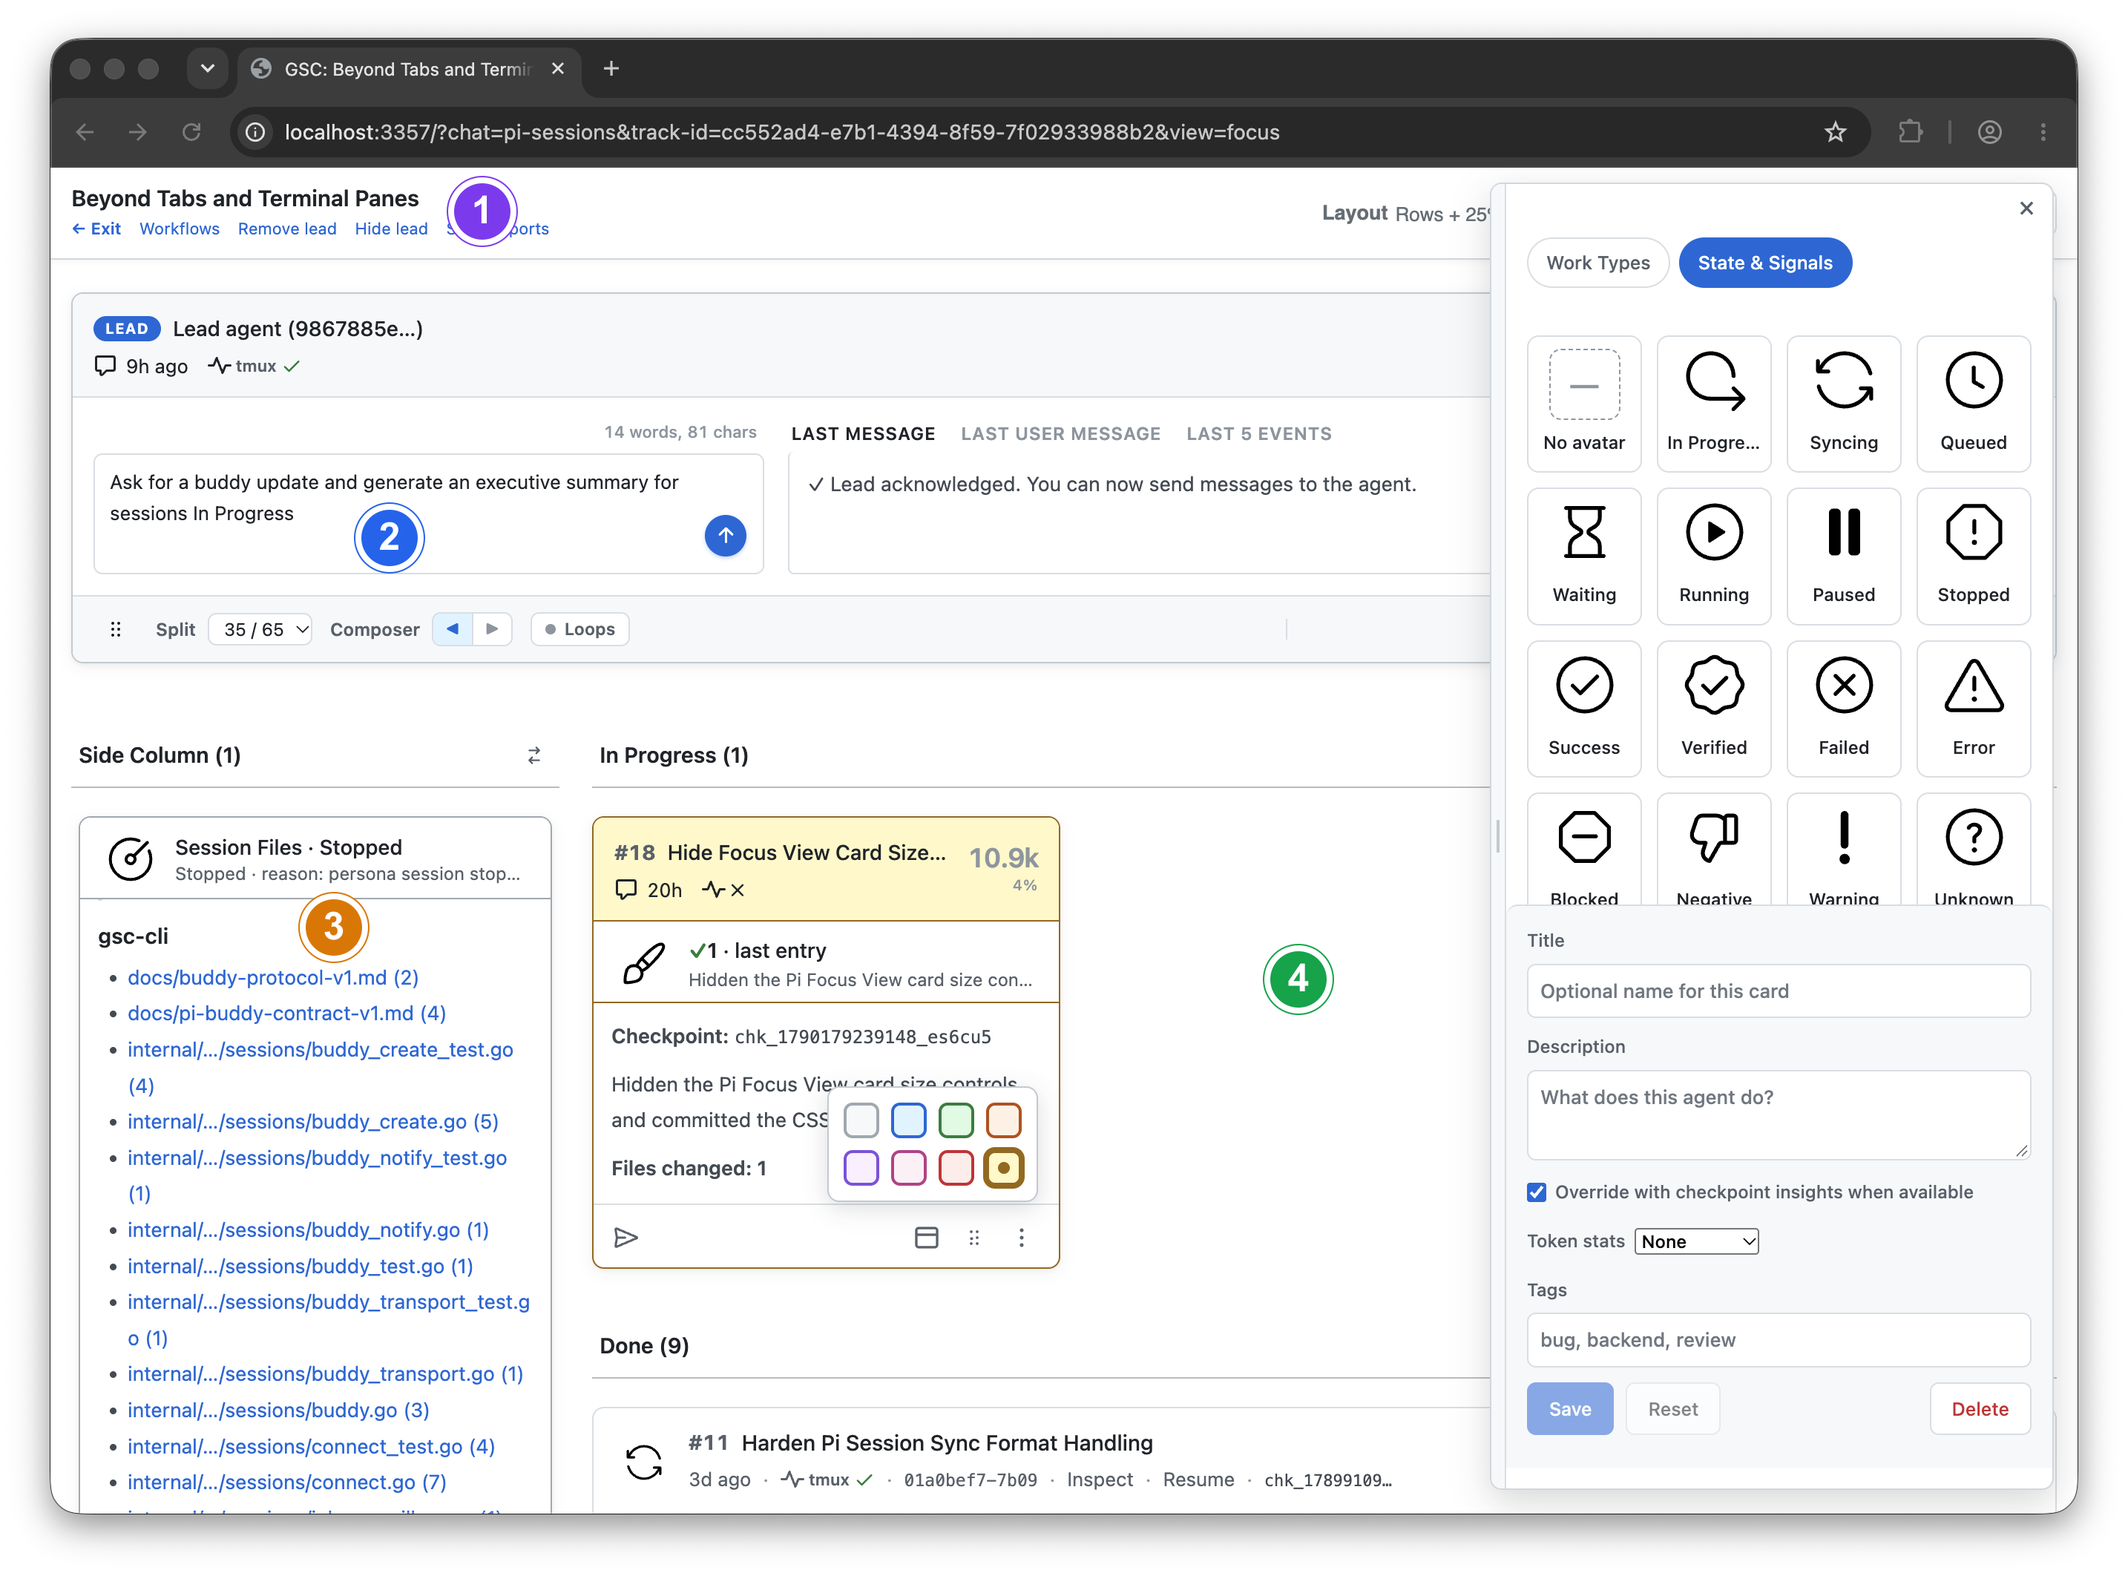
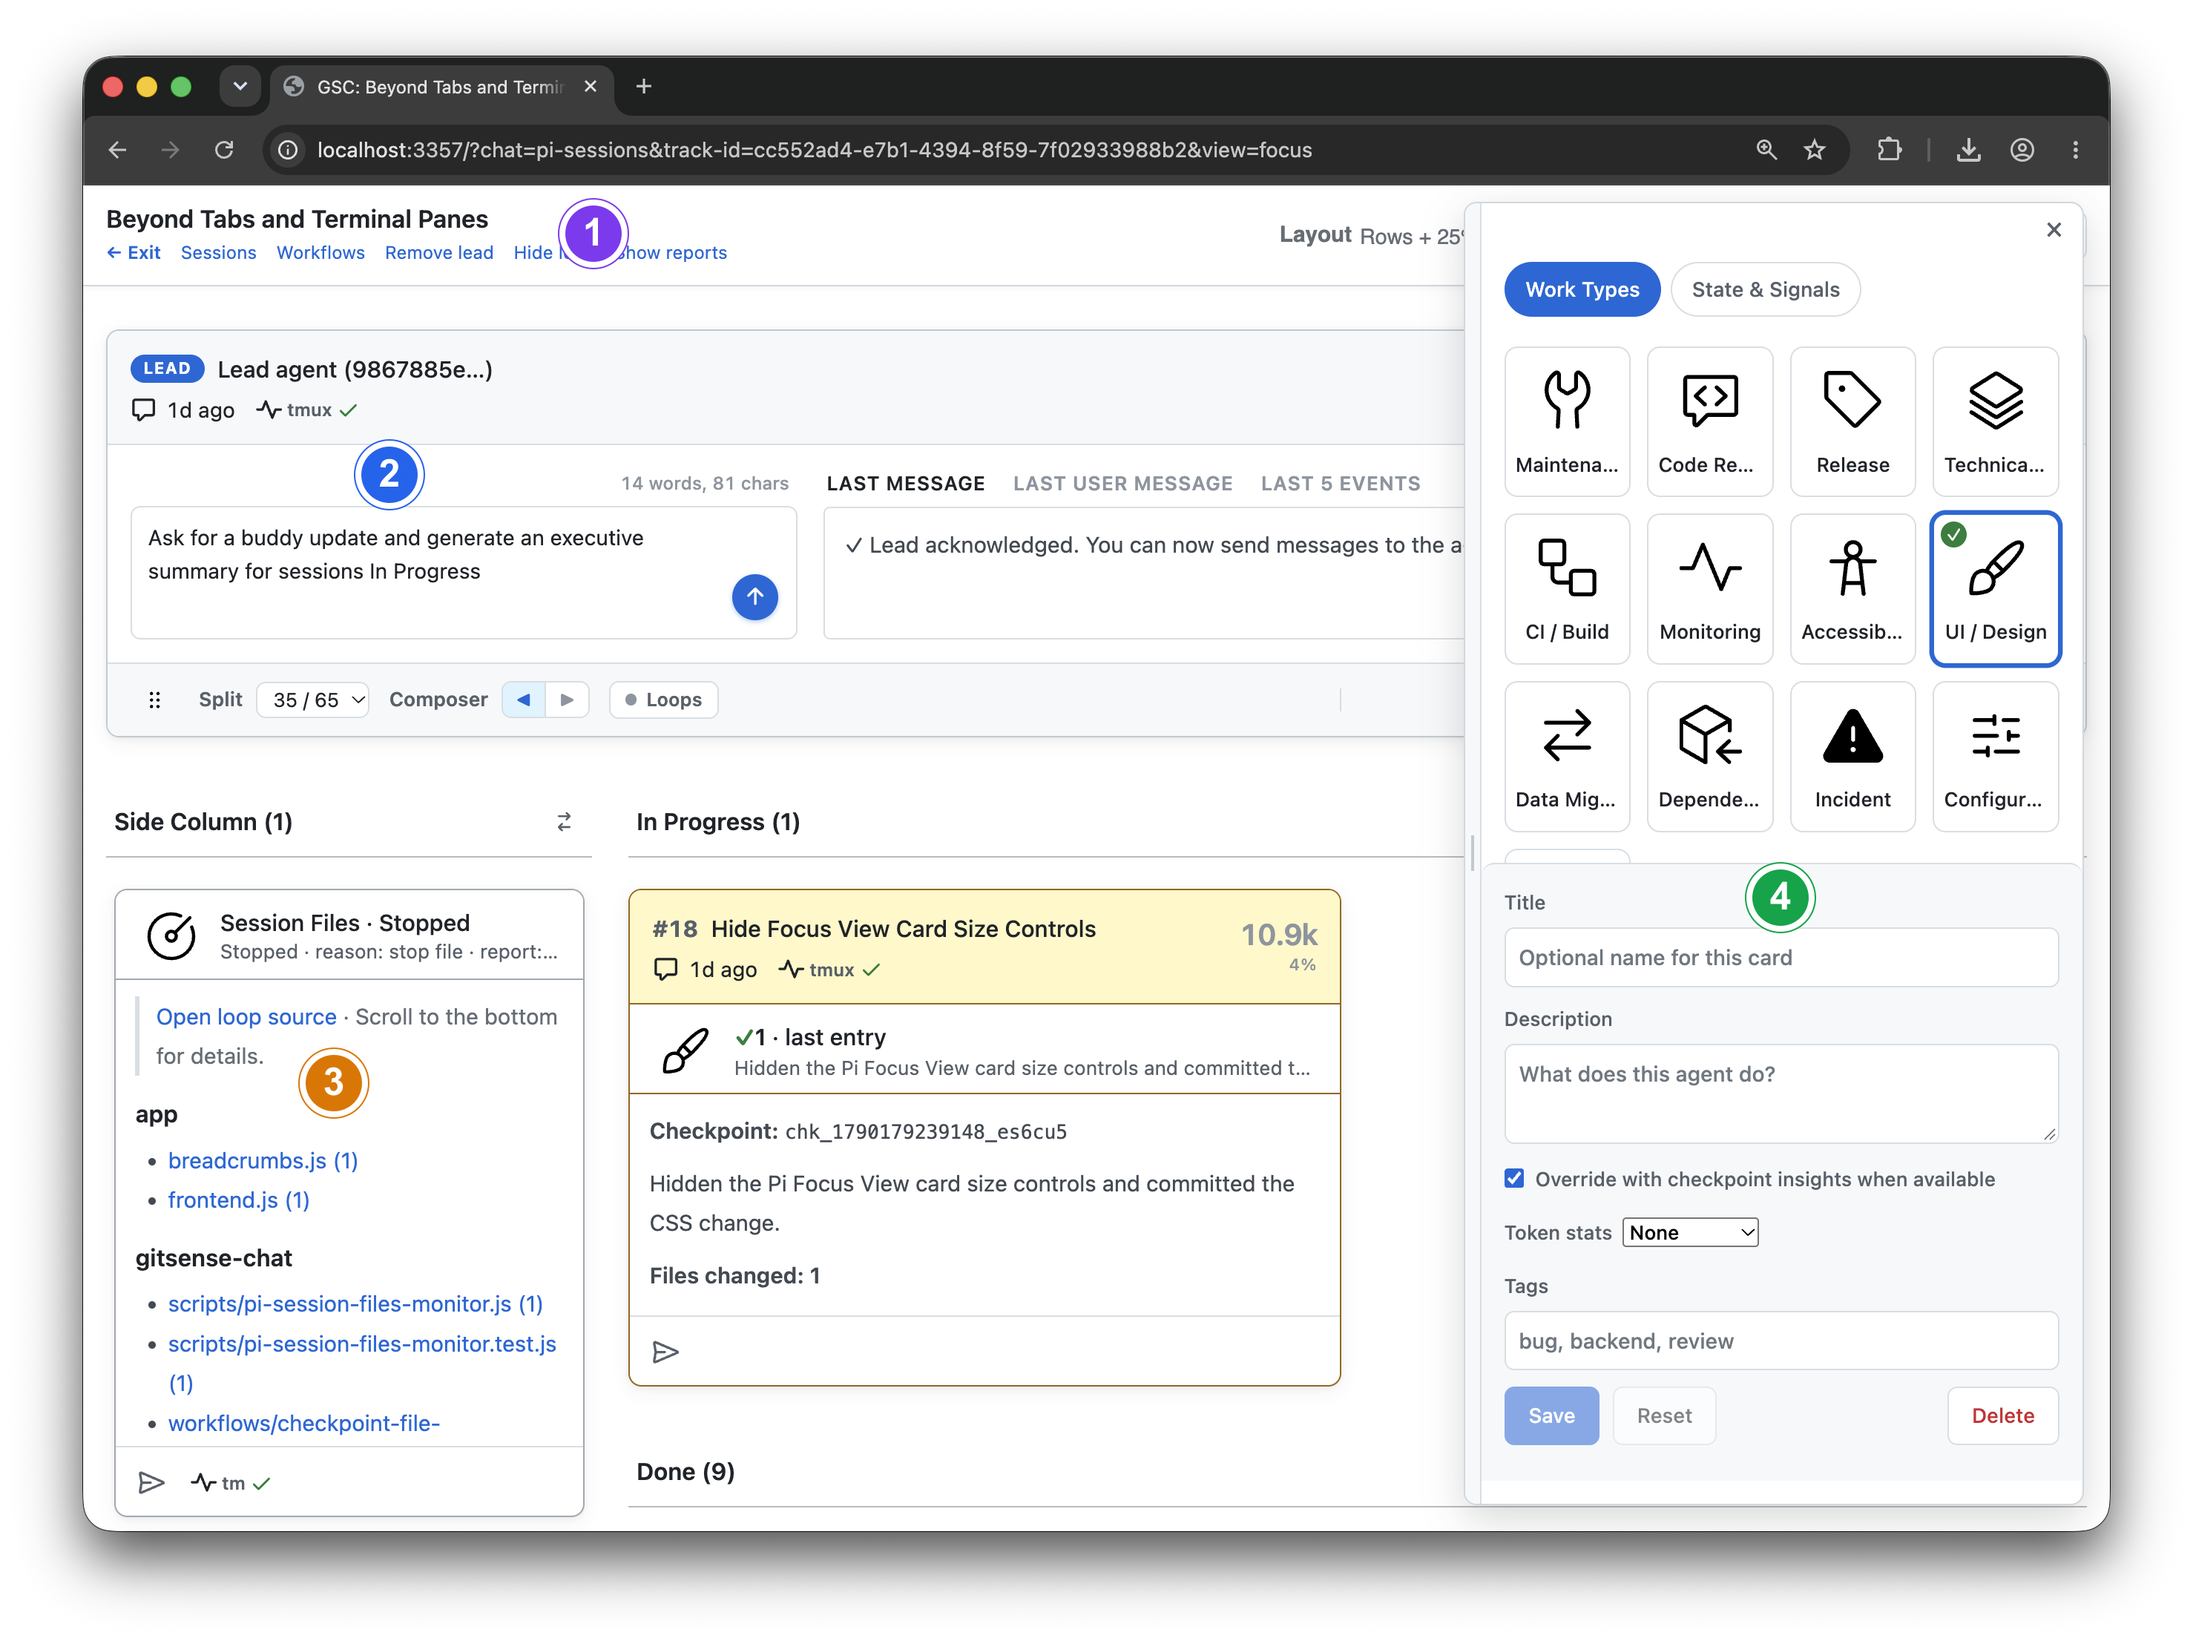
Update README

Changed region(s): [[0.0, 0.0, 0.993, 0.9944], [0.4965, 0.6525, 0.5275, 0.6836]]

diff --git a/README.md b/README.md
@@ -20,7 +20,7 @@ GitSense uses your agents’ session logs in the background. No wrapper or proxy
   <a href="#share-knowledge">Share knowledge</a>
 </p>
 
-<img src="assets/beyond-tabs-and-terminal-panes.png" alt="GitSense Chat for organizing agent sessions and coordinating work" width="100%">
+<img src="assets/beyond-tabs-and-terminal-panes-callouts.png" alt="GitSense Chat Group for bringing together sessions, a lead, dashboards, and Buddies" width="100%">
 
 <table>
   <tbody>
